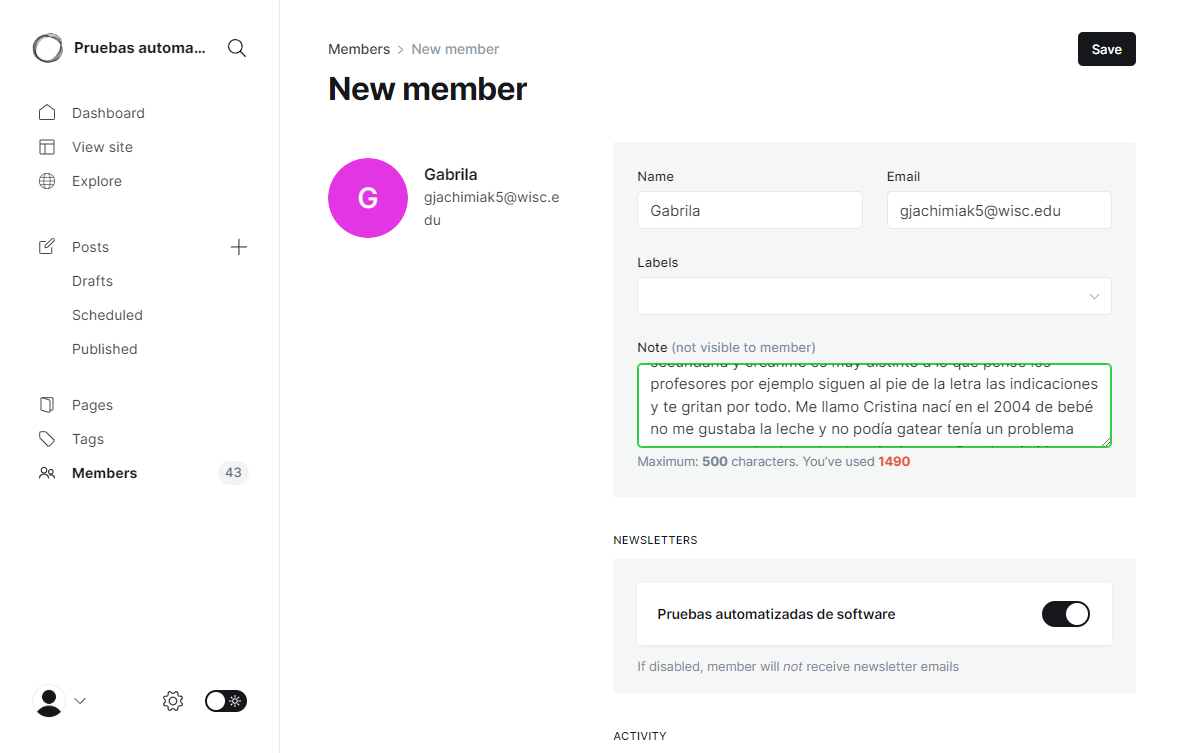
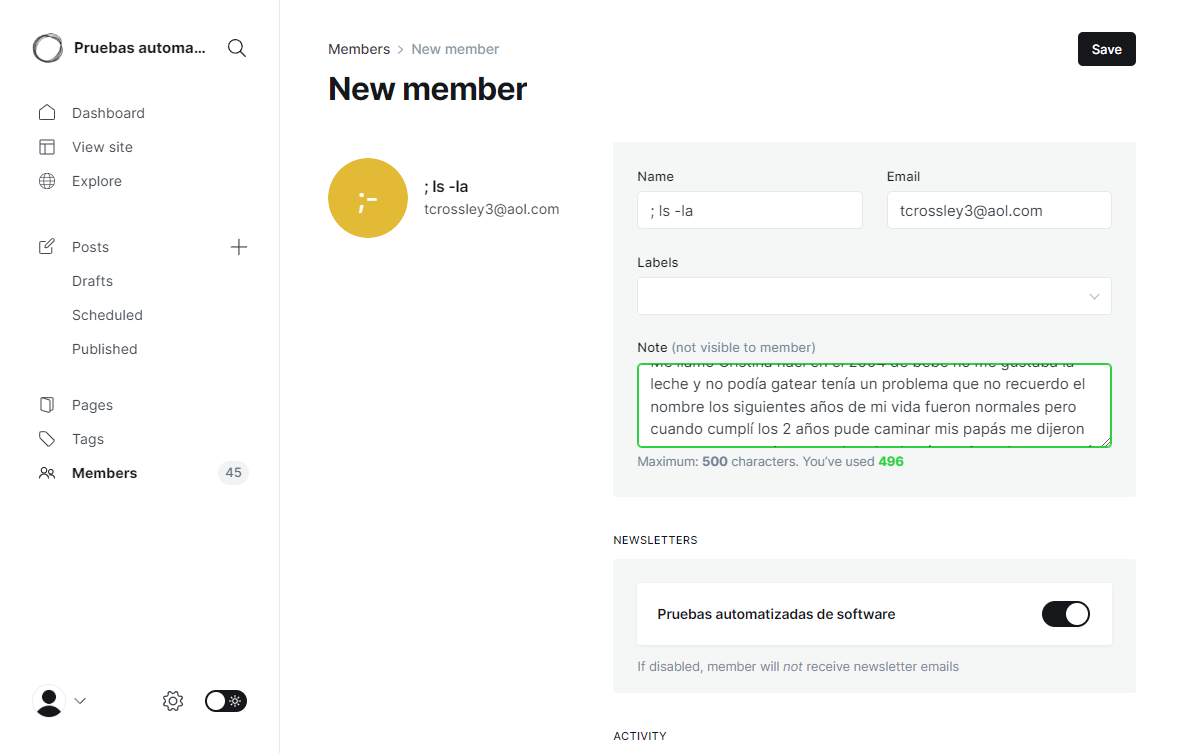
feat(EP-005-DP): No debe agregar miembro con datos peligrosos en name

diff --git a/kraken/features/web/page_objects/MembersPage.js b/kraken/features/web/page_objects/MembersPage.js
@@ -112,11 +112,19 @@ class MembersPage {
         this.testData = await response.json();
     }
 
-    async crearMemebers(email = '', note = '') {
+    async crearMemebers(email = '', note = '', name = '') {
         
         //lets grab a random index
         const randomIndex = Math.floor(Math.random() * this.testData.length);
-        const name = this.testData[randomIndex].first_name;
+    
+        
+        let nameNote;
+
+        if ( name === "warning") 
+            nameNote = this.testData[randomIndex].string_peligrosos;
+        else
+            nameNote = this.testData[randomIndex].first_name;
+
 
         let emailNote;
 
@@ -124,6 +132,7 @@ class MembersPage {
             emailNote = this.testData[randomIndex].nota_max;
         else
             emailNote = this.testData[randomIndex].nota;
+
 
         let emailToUse;
 
@@ -133,15 +142,15 @@ class MembersPage {
             emailToUse = this.testData[randomIndex].email;
         }
 
-        // Imprimir los valores en la consola
+       
         try {
-            // Esperar que cada acción termine antes de pasar a la siguiente
-            await this.enterName(name); // Espera a que se complete antes de continuar
-            await this.enterEmail(emailToUse); // Espera a que se complete antes de continuar
-            await this.enterMemberNote(emailNote); // Espera a que se complete antes de continuar
+            
+            await this.enterName(nameNote); 
+            await this.enterEmail(emailToUse); 
+            await this.enterMemberNote(emailNote); 
         } catch (error) {
             console.error("Error en la creación de miembro:", error);
-            throw error; // Opcionalmente puedes manejar el error de otra manera si lo necesitas
+            throw error; 
         }
         
         

diff --git a/kraken/features/web/step_definitions/membersSteps.js b/kraken/features/web/step_definitions/membersSteps.js
@@ -100,6 +100,23 @@ Then('I should see Please Enter an Note long', async function () {
 });
 
 
+Then('I should see Please Enter an Warning', async function () {
+    
+    await this.driver.pause(5000); 
+    const createdContainer = await this.driver.$("div.error p");
+    
+    const isDisplayed = await createdContainer.isDisplayed();
+    if (!isDisplayed) {
+        throw new Error("El mensaje 'Created' no está visible en la página.");
+    }
+
+    const textContent = await createdContainer.getText();
+    if (!textContent.includes("Warning.")) {
+        throw new Error("El mensaje 'Warning.' no se encuentra en el texto del elemento.");
+    }
+});
+
+
 
 
 //VERSIÓN DOS GHOST
@@ -169,5 +186,12 @@ When('I fetch data from Mockaroo API {string} not allowed max 500 note', async f
     const membersPage = new MembersPage(this.driver);
     await membersPage.getTestDataSet(apiUrl, 'GET');
     await membersPage.crearMemebers('','max 500');  
+});
+
+When('I fetch data from Mockaroo API {string} not allowed warning', async function (apiUrl) {
+    
+    const membersPage = new MembersPage(this.driver);
+    await membersPage.getTestDataSet(apiUrl, 'GET');
+    await membersPage.crearMemebers('','','warning');  
 });
 
